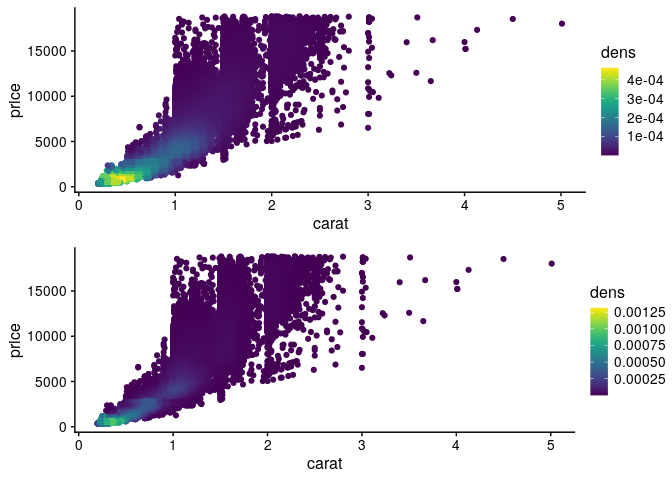
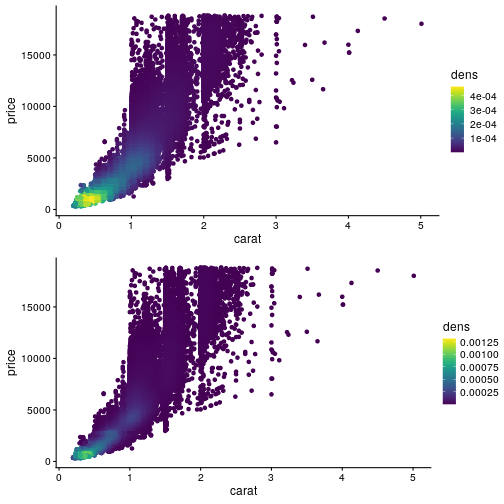
updated figures

diff --git a/README-pointbin.md b/README-pointbin.md
@@ -1,35 +1,31 @@
+---
+output: github_document
+---
+
+
+
 
 # Geom `geom_pointbin`
 
-The R package
-[ggpointdensity](https://github.com/variani/ggpointdensity) implements
-two methods for 2D density estimation for the `geom_pointdensity` geom,
-nearest neighbors (`method="default"`) and a kernel density approach
-`kde2d` (`method="kde2d"`) from the MASS package. These two methods can
-be rather slow when datasets are large (\>100,000 observations) and/or
-the disribution is not Gaussian.
+The R package [ggpointdensity](https://github.com/variani/ggpointdensity) 
+implements two methods for 2D density estimation for the `geom_pointdensity` geom, 
+nearest neighbors (`method="default"`) and 
+a kernel density approach `kde2d` (`method="kde2d"`) from the MASS package.
+These two methods can be rather slow when datasets  are large (>100,000 observations)
+and/or the disribution is not Gaussian.
 
-A new geom `geom_pointbin` is based on the average shifted histogram
-implemented in the R package
-[ash](https://cran.r-project.org/web/packages/ash/) and found to be both
-accurate and computationally efficient [(Deng and
-Wickham, 2011)](https://vita.had.co.nz/papers/density-estimation.pdf).
+A new geom `geom_pointbin` is based on the average shifted histogram 
+implemented in the R package [ash](https://cran.r-project.org/web/packages/ash/)
+and found to be both accurate and computationally efficient
+[(Deng and Wickham, 2011)](https://vita.had.co.nz/papers/density-estimation.pdf).
 
-``` r
+
+```r
 library(ggpointdensity)
 
 library(ggplot2)
 library(dplyr)
-#> 
-#> Attaching package: 'dplyr'
-#> The following objects are masked from 'package:stats':
-#> 
-#>     filter, lag
-#> The following objects are masked from 'package:base':
-#> 
-#>     intersect, setdiff, setequal, union
 library(viridis)
-#> Loading required package: viridisLite
 
 library(cowplot)
 theme_set(theme_cowplot(12))
@@ -37,14 +33,16 @@ theme_set(theme_cowplot(12))
 
 ## `geom_pointbin` accuracy
 
-``` r
+
+```r
 N = 1e3
 dat = bind_rows(
   tibble(x = rnorm(N, sd = 1), y = rnorm(N, sd = 10), group = "foo"),
   tibble(x = rnorm(N, mean = 1, sd = .5), y = rnorm(N, mean = 7, sd = 5), group = "bar"))
 ```
 
-``` r
+
+```r
 p_base = ggplot(data = dat, mapping = aes(x = x, y = y))
 
 p_nn = p_base + 
@@ -68,80 +66,92 @@ plot_grid(
   p_kde + labs(subtitle = 'geom_pointdensity(method = "kde2d")'),
   p_bin + labs(subtitle = 'geom_pointbin()'),
   p_bin2 + labs(subtitle = 'geom_pointbin(nbin = 16)'))
-#> Loading required package: ash
 ```
 
-<img src="img/README-pointbin-plot_pointdensity_vs_pointbin-1.png" width="100%" />
+<img src="img/README-pointbin-plot_pointdensity_vs_pointbin-1.png" alt="plot of chunk plot_pointdensity_vs_pointbin" width="100%" />
 
 ## Support of ggplot2 features
 
-``` r
+
+```r
 p_bin + facet_wrap( ~ group)
 ```
 
-<img src="img/README-pointbin-facet-1.png" width="100%" />
+<img src="img/README-pointbin-facet-1.png" alt="plot of chunk facet" width="100%" />
 
-``` r
+
+```r
 p_bin + xlim(c(-3, 0))
-#> Warning: Removed 1491 rows containing non-finite values
+#> Warning: Removed 1479 rows containing non-finite values
 #> (`stat_point_bin()`).
 ```
 
-<img src="img/README-pointbin-xlim-1.png" width="100%" />
+<img src="img/README-pointbin-xlim-1.png" alt="plot of chunk xlim" width="100%" />
 
 ## `geom_pointbin` computational efficiency
 
-``` r
+
+```r
 data(diamonds, package = "ggplot2")
 ```
 
-``` r
+
+```r
 p_diamonds_base = ggplot(diamonds, aes(x = carat, y = price))
 p_diamonds_bin = p_diamonds_base + 
   geom_pointbin() + scale_color_viridis()
 ggplot2::benchplot(p_diamonds_bin)
 ```
 
-<img src="img/README-pointbin-plot_diamonds-1.png" width="100%" />
+<img src="img/README-pointbin-plot_diamonds-1.png" alt="plot of chunk plot_diamonds" width="100%" />
 
-    #>        step user.self sys.self elapsed
-    #> 1 construct     0.000    0.000   0.000
-    #> 2     build     0.101    0.012   0.113
-    #> 3    render     0.057    0.000   0.061
-    #> 4      draw     0.867    0.000   0.875
-    #> 5     TOTAL     1.025    0.012   1.049
+```
+#>        step user.self sys.self elapsed
+#> 1 construct     0.000    0.000   0.000
+#> 2     build     0.106    0.012   0.119
+#> 3    render     0.057    0.000   0.062
+#> 4      draw     0.775    0.000   0.775
+#> 5     TOTAL     0.938    0.012   0.956
+```
 
-``` r
+
+```r
 p_diamonds_kde = p_diamonds_base +
   geom_pointdensity(method = "kde2d") + scale_color_viridis()
 ggplot2::benchplot(p_diamonds_kde)
 ```
 
-<img src="img/README-pointbin-plot_diamonds_kde-1.png" width="100%" />
+<img src="img/README-pointbin-plot_diamonds_kde-1.png" alt="plot of chunk plot_diamonds_kde" width="100%" />
 
-    #>        step user.self sys.self elapsed
-    #> 1 construct     0.000    0.000   0.000
-    #> 2     build     1.411    0.243   1.662
-    #> 3    render     0.058    0.000   0.061
-    #> 4      draw     0.871    0.000   0.871
-    #> 5     TOTAL     2.340    0.243   2.594
+```
+#>        step user.self sys.self elapsed
+#> 1 construct     0.000     0.00   0.000
+#> 2     build     1.498     0.16   1.658
+#> 3    render     0.058     0.00   0.062
+#> 4      draw     0.788     0.00   0.788
+#> 5     TOTAL     2.344     0.16   2.508
+```
 
-``` r
+
+```r
 p_diamonds_nn = p_diamonds_base +
   geom_pointdensity(method = "default") + scale_color_viridis()
 ggplot2::benchplot(p_diamonds_nn)
 ```
 
-<img src="img/README-pointbin-plot_diamonds_nn-1.png" width="100%" />
+<img src="img/README-pointbin-plot_diamonds_nn-1.png" alt="plot of chunk plot_diamonds_nn" width="100%" />
 
-    #>        step user.self sys.self elapsed
-    #> 1 construct     0.000    0.000   0.000
-    #> 2     build     8.646    0.012   8.674
-    #> 3    render     0.058    0.000   0.063
-    #> 4      draw     0.859    0.000   0.860
-    #> 5     TOTAL     9.563    0.012   9.597
+```
+#>        step user.self sys.self elapsed
+#> 1 construct     0.000    0.000   0.000
+#> 2     build     8.629    0.012   8.646
+#> 3    render     0.058    0.000   0.062
+#> 4      draw     0.787    0.000   0.788
+#> 5     TOTAL     9.474    0.012   9.496
+```
 
-``` r
+
+```r
 # default nbin = 64
 p_diamonds_nbin64 = p_diamonds_base + 
   geom_pointbin() + scale_color_viridis()
@@ -154,11 +164,12 @@ plot_grid(
   ncol = 1)
 ```
 
-<img src="img/README-pointbin-plot_diamonds_bin2-1.png" width="100%" />
+<img src="img/README-pointbin-plot_diamonds_bin2-1.png" alt="plot of chunk plot_diamonds_bin2" width="100%" />
 
 ## `geom_pointbin` sub-sampling within bins
 
-``` r
+
+```r
 # 0 samples per bin
 p_bin_samp0 = p_base + 
   geom_pointbin(nbin = 16, nsamples = 0) +
@@ -187,4 +198,5 @@ plot_grid(
   ncol = 2)
 ```
 
-<img src="img/README-pointbin-nsample_bin-1.png" width="100%" />
+<img src="img/README-pointbin-nsample_bin-1.png" alt="plot of chunk nsample_bin" width="100%" />
+
